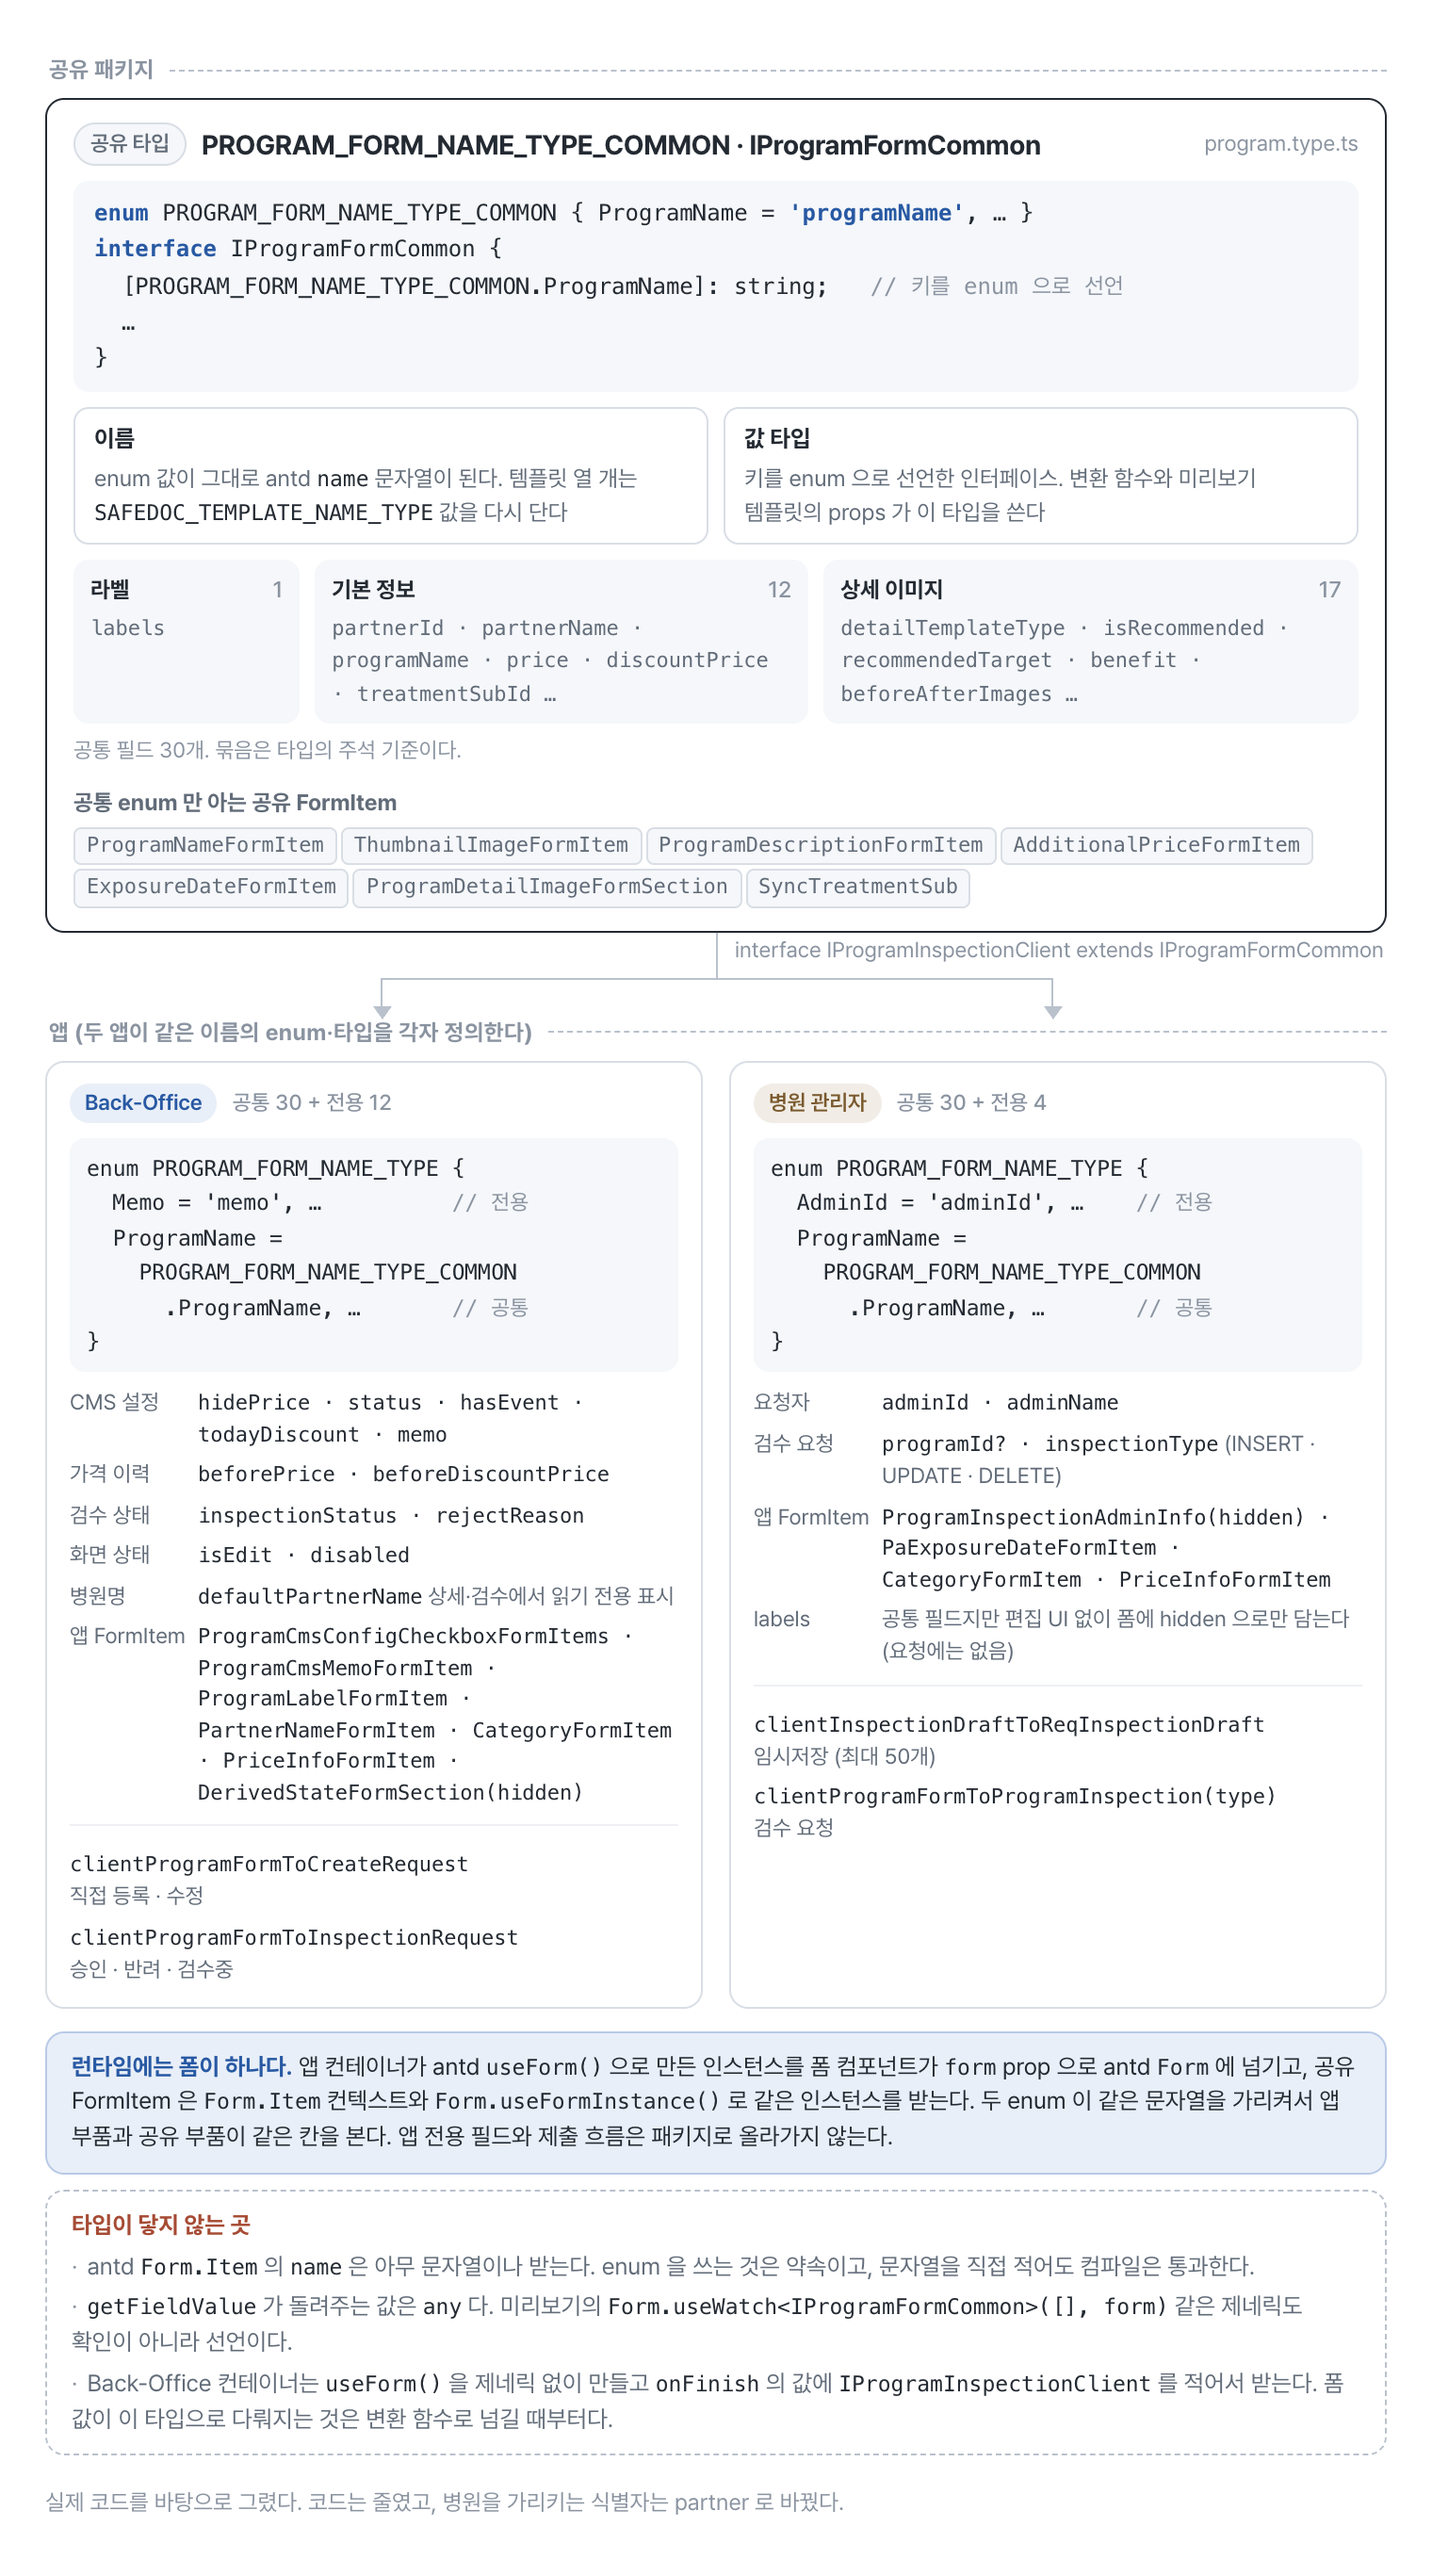
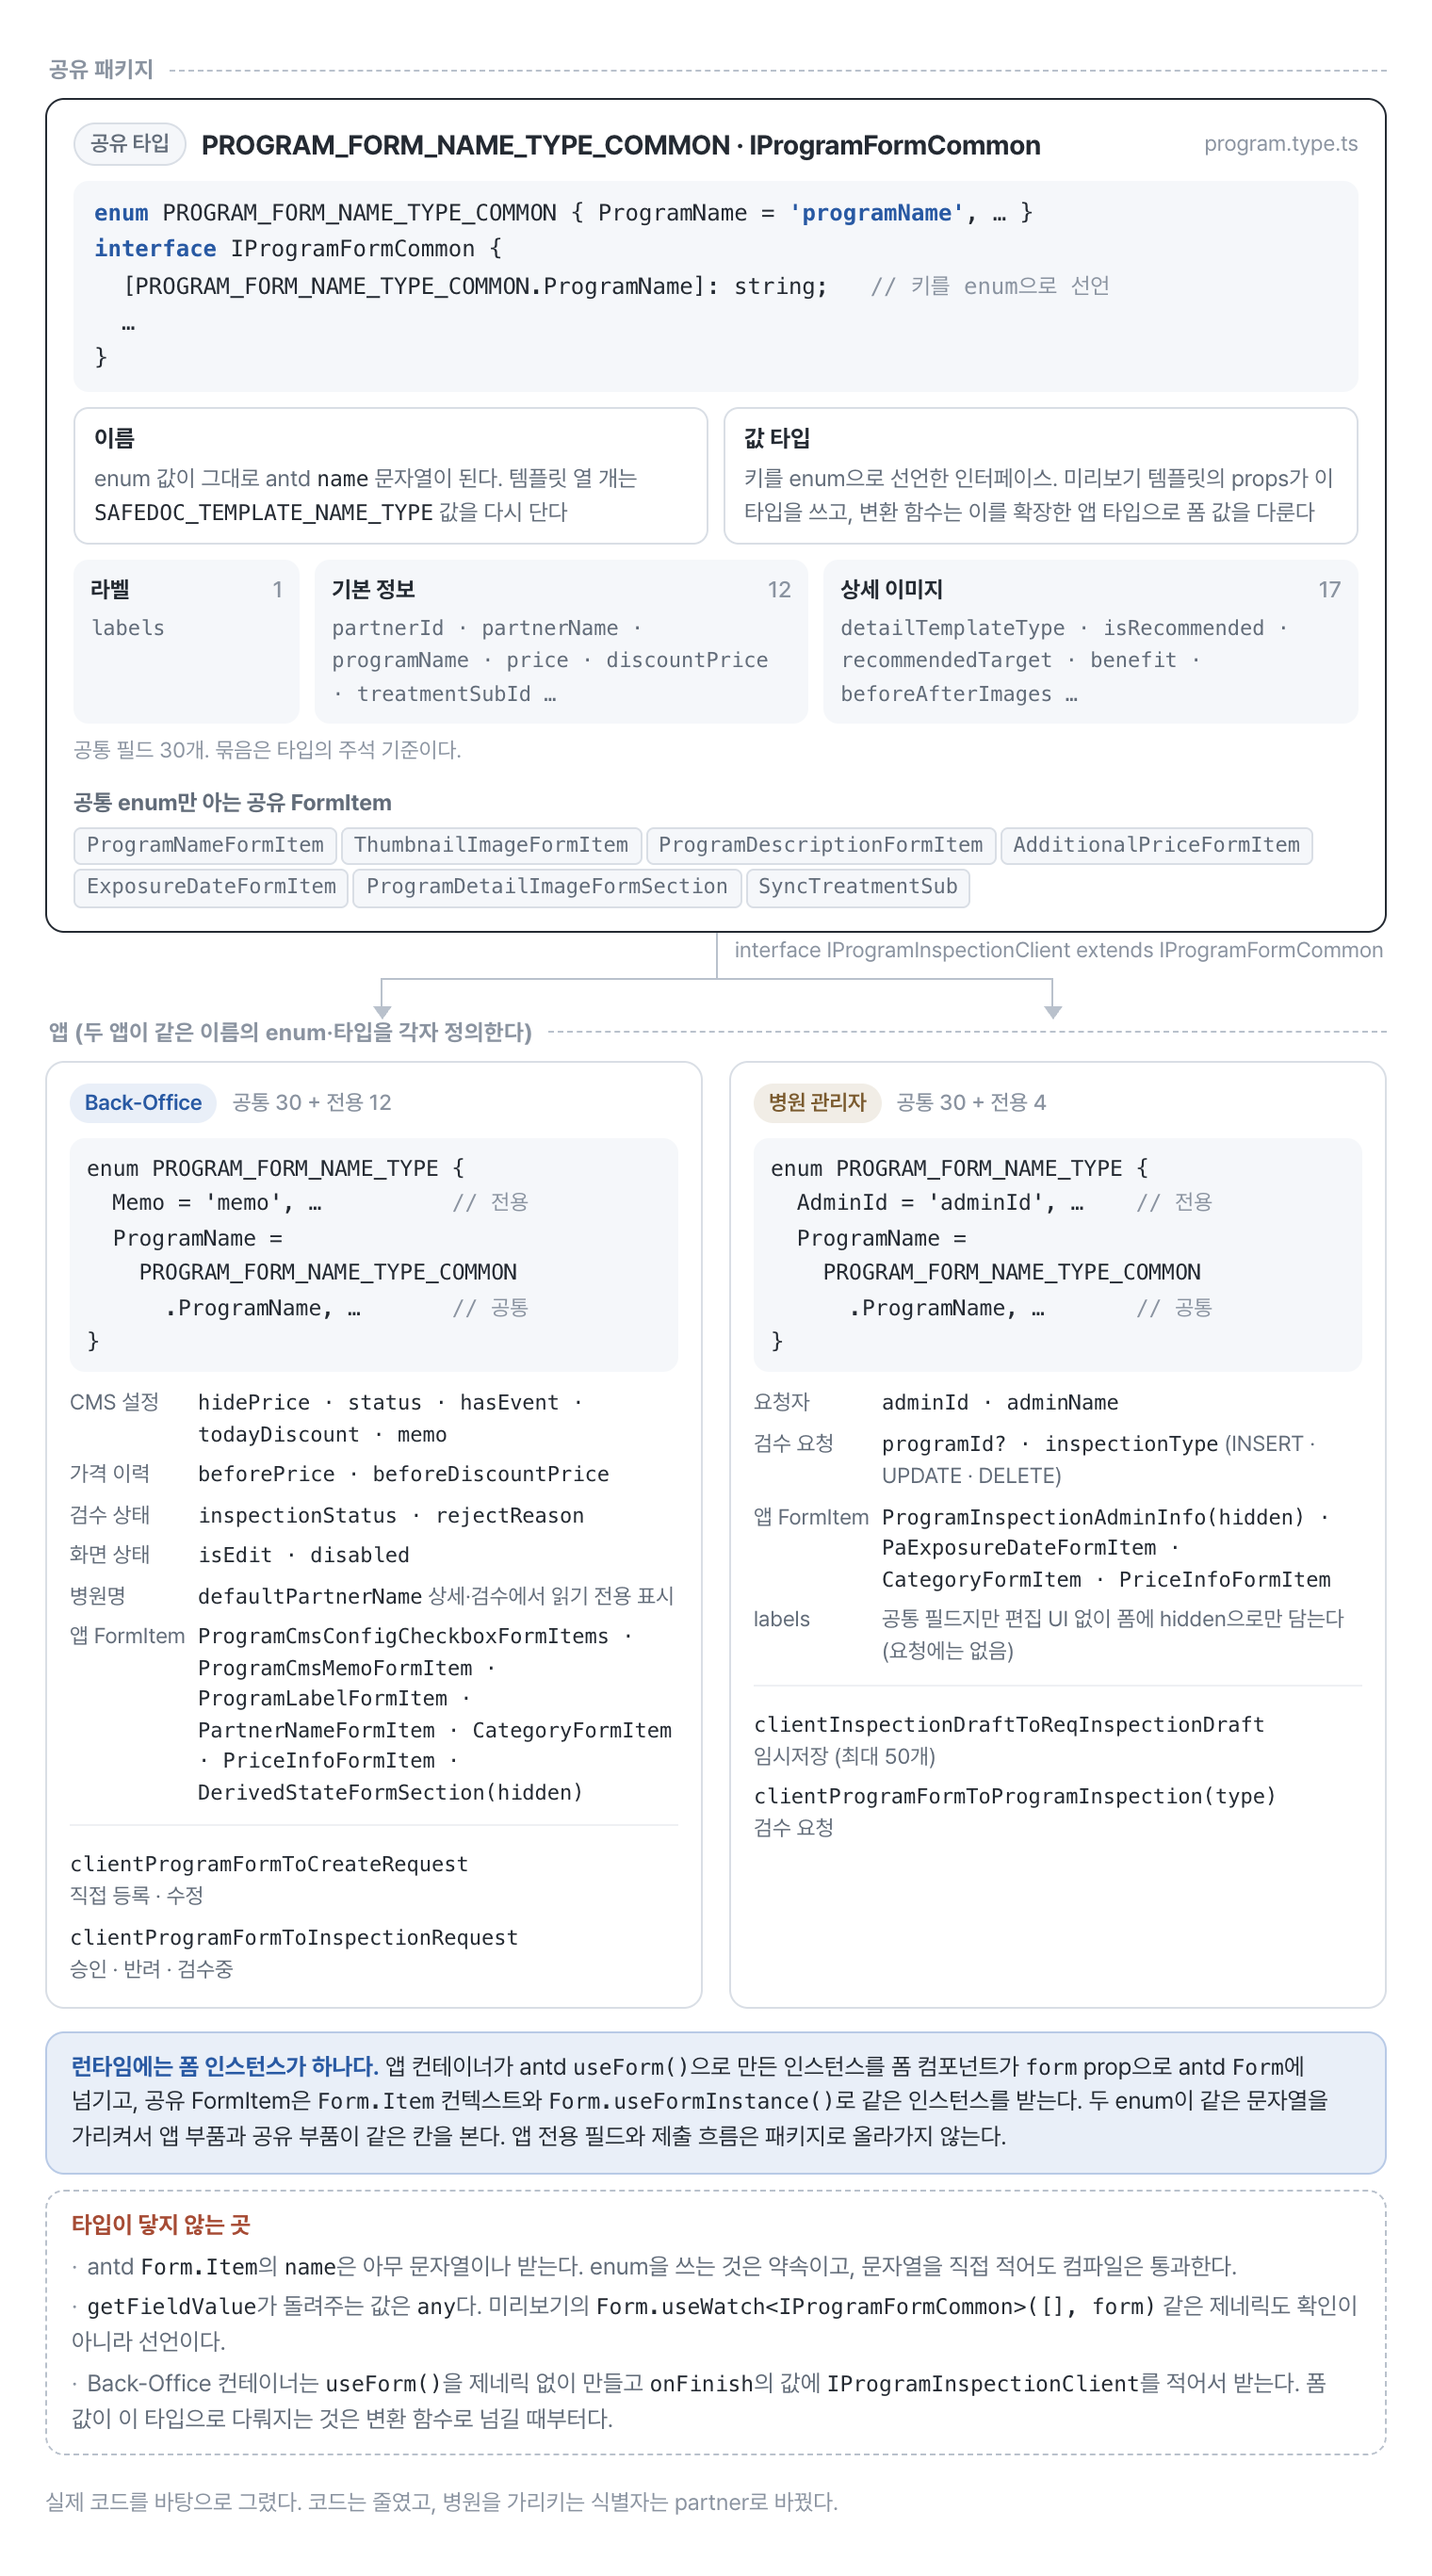
docs(blog): 프로그램 폼 그림의 조사 띄어쓰기·용어와 삭제 요청 버튼을 바로잡는다 (02-form-name-layers)

diff --git a/blog/assets/figures/program-form/src/02-form-name-layers.html b/blog/assets/figures/program-form/src/02-form-name-layers.html
@@ -62,12 +62,12 @@
   <div class="head"><span class="app server">공유 타입</span><b>PROGRAM_FORM_NAME_TYPE_COMMON · IProgramFormCommon</b><span class="file">program.type.ts</span></div>
 <pre><span class="k">enum</span> PROGRAM_FORM_NAME_TYPE_COMMON { ProgramName = <span class="k">'programName'</span>, … }
 <span class="k">interface</span> IProgramFormCommon {
-  [PROGRAM_FORM_NAME_TYPE_COMMON.ProgramName]: string;   <span class="c">// 키를 enum 으로 선언</span>
+  [PROGRAM_FORM_NAME_TYPE_COMMON.ProgramName]: string;   <span class="c">// 키를 enum으로 선언</span>
   …
 }</pre>
   <div class="pair">
     <div class="mini"><b>이름</b>enum 값이 그대로 antd <code>name</code> 문자열이 된다. 템플릿 열 개는 <code>SAFEDOC_TEMPLATE_NAME_TYPE</code> 값을 다시 단다</div>
-    <div class="mini"><b>값 타입</b>키를 enum 으로 선언한 인터페이스. 변환 함수와 미리보기 템플릿의 props 가 이 타입을 쓴다</div>
+    <div class="mini"><b>값 타입</b>키를 enum으로 선언한 인터페이스. 미리보기 템플릿의 props가 이 타입을 쓰고, 변환 함수는 이를 확장한 앱 타입으로 폼 값을 다룬다</div>
   </div>
   <div class="groups">
     <div class="grp"><div class="t">라벨<span>1</span></div><div class="f">labels</div></div>
@@ -75,7 +75,7 @@
     <div class="grp"><div class="t">상세 이미지<span>17</span></div><div class="f">detailTemplateType · isRecommended · recommendedTarget · benefit · beforeAfterImages …</div></div>
   </div>
   <p class="basis">공통 필드 30개. 묶음은 타입의 주석 기준이다.</p>
-  <div class="sub-h">공통 enum 만 아는 공유 FormItem</div>
+  <div class="sub-h">공통 enum만 아는 공유 FormItem</div>
   <div class="items">
     <span class="tag">ProgramNameFormItem</span><span class="tag">ThumbnailImageFormItem</span><span class="tag">ProgramDescriptionFormItem</span><span class="tag">AdditionalPriceFormItem</span><span class="tag">ExposureDateFormItem</span><span class="tag">ProgramDetailImageFormSection</span><span class="tag">SyncTreatmentSub</span>
   </div>
@@ -120,7 +120,7 @@
       <div class="row"><span>요청자</span><code>adminId · adminName</code></div>
       <div class="row"><span>검수 요청</span><span><code>programId? · inspectionType</code> (INSERT · UPDATE · DELETE)</span></div>
       <div class="row"><span>앱 FormItem</span><code>ProgramInspectionAdminInfo(hidden) · PaExposureDateFormItem · CategoryFormItem · PriceInfoFormItem</code></div>
-      <div class="row"><span>labels</span><span>공통 필드지만 편집 UI 없이 폼에 hidden 으로만 담는다(요청에는 없음)</span></div>
+      <div class="row"><span>labels</span><span>공통 필드지만 편집 UI 없이 폼에 hidden으로만 담는다(요청에는 없음)</span></div>
     </div>
     <div class="submit">
       <div class="s"><code>clientInspectionDraftToReqInspectionDraft</code><span>임시저장 (최대 50개)</span></div>
@@ -129,15 +129,15 @@
   </div>
 </div>
 
-<div class="runtime"><b>런타임에는 폼이 하나다.</b> 앱 컨테이너가 antd <code>useForm()</code> 으로 만든 인스턴스를 폼 컴포넌트가 <code>form</code> prop 으로 antd <code>Form</code> 에 넘기고, 공유 FormItem 은 <code>Form.Item</code> 컨텍스트와 <code>Form.useFormInstance()</code> 로 같은 인스턴스를 받는다. 두 enum 이 같은 문자열을 가리켜서 앱 부품과 공유 부품이 같은 칸을 본다. 앱 전용 필드와 제출 흐름은 패키지로 올라가지 않는다.</div>
+<div class="runtime"><b>런타임에는 폼 인스턴스가 하나다.</b> 앱 컨테이너가 antd <code>useForm()</code>으로 만든 인스턴스를 폼 컴포넌트가 <code>form</code> prop으로 antd <code>Form</code>에 넘기고, 공유 FormItem은 <code>Form.Item</code> 컨텍스트와 <code>Form.useFormInstance()</code>로 같은 인스턴스를 받는다. 두 enum이 같은 문자열을 가리켜서 앱 부품과 공유 부품이 같은 칸을 본다. 앱 전용 필드와 제출 흐름은 패키지로 올라가지 않는다.</div>
 
 <div class="limit"><b>타입이 닿지 않는 곳</b>
   <ul>
-    <li>antd <code>Form.Item</code> 의 <code>name</code> 은 아무 문자열이나 받는다. enum 을 쓰는 것은 약속이고, 문자열을 직접 적어도 컴파일은 통과한다.</li>
-    <li><code>getFieldValue</code> 가 돌려주는 값은 <code>any</code> 다. 미리보기의 <code>Form.useWatch&lt;IProgramFormCommon&gt;([], form)</code> 같은 제네릭도 확인이 아니라 선언이다.</li>
-    <li>Back-Office 컨테이너는 <code>useForm()</code> 을 제네릭 없이 만들고 <code>onFinish</code> 의 값에 <code>IProgramInspectionClient</code> 를 적어서 받는다. 폼 값이 이 타입으로 다뤄지는 것은 변환 함수로 넘길 때부터다.</li>
+    <li>antd <code>Form.Item</code>의 <code>name</code>은 아무 문자열이나 받는다. enum을 쓰는 것은 약속이고, 문자열을 직접 적어도 컴파일은 통과한다.</li>
+    <li><code>getFieldValue</code>가 돌려주는 값은 <code>any</code>다. 미리보기의 <code>Form.useWatch&lt;IProgramFormCommon&gt;([], form)</code> 같은 제네릭도 확인이 아니라 선언이다.</li>
+    <li>Back-Office 컨테이너는 <code>useForm()</code>을 제네릭 없이 만들고 <code>onFinish</code>의 값에 <code>IProgramInspectionClient</code>를 적어서 받는다. 폼 값이 이 타입으로 다뤄지는 것은 변환 함수로 넘길 때부터다.</li>
   </ul>
 </div>
 
-<p class="foot">실제 코드를 바탕으로 그렸다. 코드는 줄였고, 병원을 가리키는 식별자는 partner 로 바꿨다.</p>
+<p class="foot">실제 코드를 바탕으로 그렸다. 코드는 줄였고, 병원을 가리키는 식별자는 partner로 바꿨다.</p>
 </body></html>
